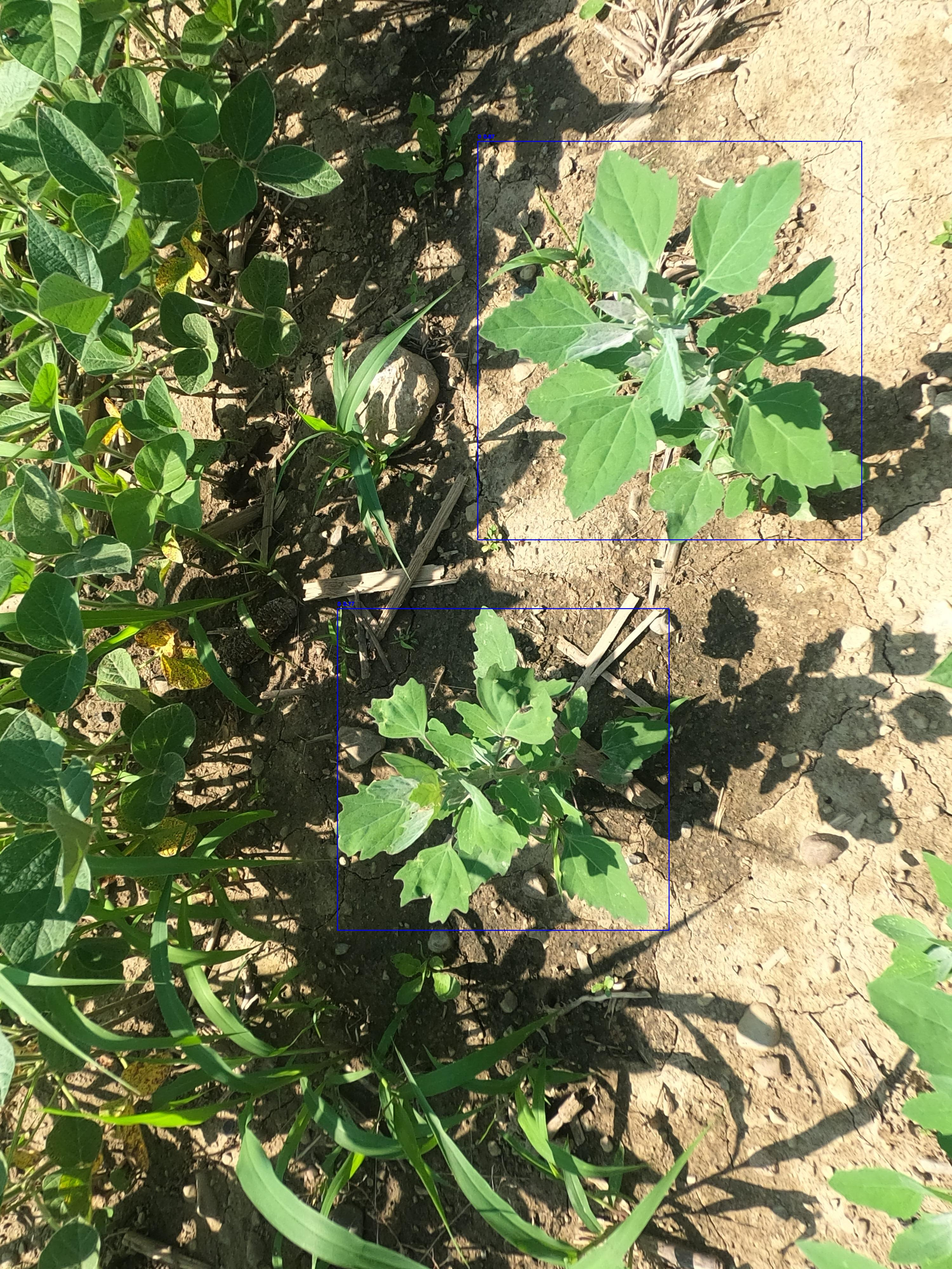
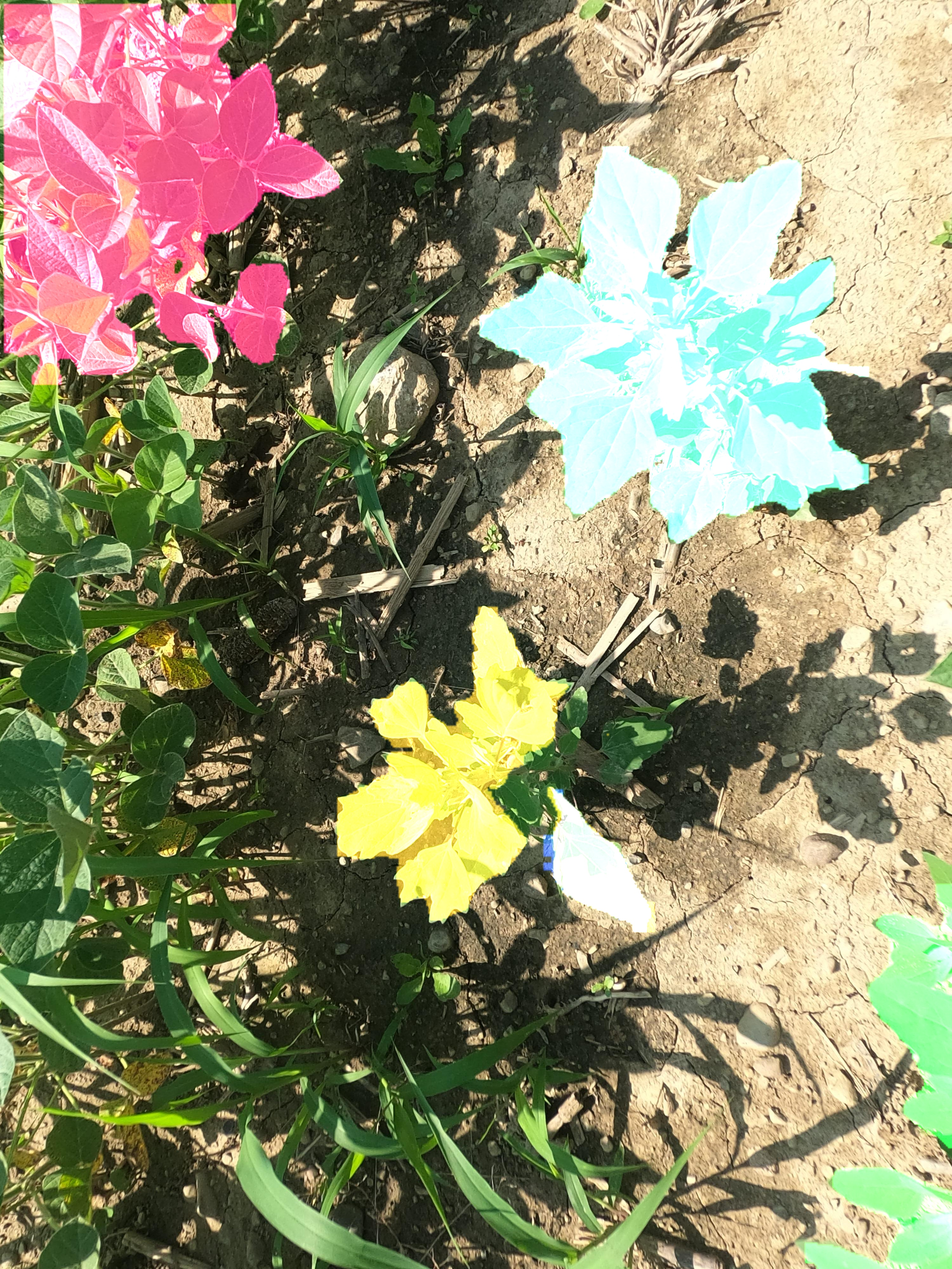
feat: in-browser segmentation

diff --git a/client-gui/src/app/_components/canvas/Canvas.tsx b/client-gui/src/app/_components/canvas/Canvas.tsx
@@ -1,7 +1,7 @@
 "use client";
 import React, { useEffect, useRef } from "react";
 import Konva from "konva";
-import useStore from "../../_store/canvas";
+import useCanvasStore from "../../_store/canvas";
 import BaseImage from "./BaseImage";
 
 let id = 1;
@@ -16,8 +16,8 @@ function getRelativePointerPosition(node: Konva.Stage) {
 
 //on pinch zoom function
 function zoomStage(stage: Konva.Stage, scaleBy: number) {
-  const oldScale = stage.scaleX();
-  const mousePointTo = {
+  const oldScale = stage.scaleX(); 
+  const mousePointTo = { 
     x: stage.width() / 2 / oldScale - stage.x() / oldScale,
     y: stage.height() / 2 / oldScale - stage.y() / oldScale,
   };
@@ -42,14 +42,14 @@ const Canvas = ({ stageRef }: CanvasProps) => {
   const imageLayerRef = useRef<Konva.Layer | null>(null);
   const regionLayerRef = useRef<Konva.Layer | null>(null);
 
-  const width = useStore((s) => s.width);
-  const height = useStore((s) => s.height);
-  const setSize = useStore((s) => s.setSize); 
-  const isDrawing = useStore((s) => s.isDrawing);
-  const toggleDrawing = useStore((s) => s.toggleIsDrawing);
-  const regions = useStore((s) => s.regions);
-  const setRegions = useStore((s) => s.setRegions);
-  const selectRegion = useStore((s) => s.selectRegion);
+  const width = useCanvasStore((s) => s.width);
+  const height = useCanvasStore((s) => s.height);
+  const setSize = useCanvasStore((s) => s.setSize); 
+  const isDrawing = useCanvasStore((s) => s.isDrawing);
+  const toggleDrawing = useCanvasStore((s) => s.toggleIsDrawing);
+  const regions = useCanvasStore((s) => s.regions);
+  const setRegions = useCanvasStore((s) => s.setRegions);
+  const selectRegion = useCanvasStore((s) => s.selectRegion);
 
   // --- Fix: keep refs to always-latest state for event handlers ---
   const regionsRef = useRef(regions); 
@@ -100,7 +100,7 @@ const Canvas = ({ stageRef }: CanvasProps) => {
     stage.add(imageLayer);
     stage.add(regionLayer);
 
-    //click and wheel
+    //click and wheel 
     stage.on("click", (e) => {
       if (e.target.name() !== "region") {
         selectRegion(null);

diff --git a/client-gui/src/app/_components/canvas/Regions.tsx b/client-gui/src/app/_components/canvas/Regions.tsx
@@ -1,14 +1,14 @@
 import React, { useEffect, useRef } from "react";
 import Konva from "konva";
 
-import useStore from "../../_store/canvas";
+import useCanvasStore from "../../_store/canvas";
 
 export default function Regions() {
   const containerRef = useRef<HTMLDivElement>(null);
   const layerRef = useRef<Konva.Layer | null>(null);
-  const selectedId = useStore(s => s.selectedRigionId);
-  const selectRegion = useStore(s => s.selectRegion);
-  const regions = useStore(s => s.regions);
+  const selectedId = useCanvasStore(s => s.selectedRigionId);
+  const selectRegion = useCanvasStore(s => s.selectRegion);
+  const regions = useCanvasStore(s => s.regions);
 
   useEffect(() => {
     if (!containerRef.current) return;
@@ -23,6 +23,7 @@ export default function Regions() {
     layer.destroyChildren();
 
     // For each region, draw the "erase" and then the fill lines
+    // This is how the stored regions gets rendered; 
     regions.forEach(region => {
       const points = region.points.flatMap(p => [p.x, p.y]);
 
@@ -58,10 +59,8 @@ export default function Regions() {
     if (!layer.getStage()) {
       // Create a Konva.Stage if not already created and attach the layer
       if (!containerRef.current) return;
-
       // Store the stage instance on the container DOM node for reuse
       let stage = (containerRef.current as any)._konvaStage as Konva.Stage | undefined;
-
       if (!stage) {
         stage = new Konva.Stage({
           container: containerRef.current,
@@ -70,7 +69,6 @@ export default function Regions() {
         });
         (containerRef.current as any)._konvaStage = stage;
       }
-
       stage.add(layer);
     }
   }, [regions, selectedId, selectRegion]);

diff --git a/client-gui/src/app/_components/settings.tsx b/client-gui/src/app/_components/settings.tsx
@@ -4,6 +4,8 @@ import Checkbox from '@mui/material/Checkbox';
 import Stack from '@mui/material/Stack';
 import useModelStore from '../_store/model';
 import useServerStore from '../_store/server';
+import useCanvasStore, {Region} from '../_store/canvas';
+
 import "./style.css"
 
 
@@ -11,6 +13,8 @@ const Settings = ({ onChange }: { onChange: (ops: string[]) => void }) => {
   const runOps = useModelStore((s) => s.runOps);
   const setRunOps = useModelStore((s) => s.setRunOps);
   const baseServerURL = useServerStore((s) => s.baseServerURL)
+  const regions = useCanvasStore((s) => s.regions)
+  const setRegions = useCanvasStore((s) => s.setRegions)
 
   // Local state for checkboxes as a Map
   const [checked, setChecked] = useState<Map<string, boolean>>(
@@ -38,9 +42,24 @@ const Settings = ({ onChange }: { onChange: (ops: string[]) => void }) => {
     const result = await response.json(); 
     console.log(result)
     const firstImgName = Object.keys(result)[0];
-    const de = result[firstImgName]["segment"];
-    console.log(de)
-    console.log(de);
+    const seg = result[firstImgName]["segment"];
+  
+      //create new region
+      console.log(seg[0])
+      
+    for (const [idx, r] of seg.entries()) {
+      for (const contour of r) { 
+        const newPoints = contour.map(([x, y]: [number, number]) => ({ x, y }));
+        const newRegion: Region = {
+          id: `region-${idx}`,
+          points: newPoints,
+          color: "#ff0000" 
+        };
+        setRegions([...regions, newRegion]);
+      }
+    }
+   
+      // console.log(regions)
   }
 
   // Sync zustand state with local state

diff --git a/client-gui/src/app/_components/canvas/BaseImage.tsx b/client-gui/src/app/_components/canvas/BaseImage.tsx
@@ -1,7 +1,7 @@
 "use client";
 import React, { useEffect } from "react";
 import Konva from "konva";
-import useStore from "../../_store/canvas";
+import useCanvasStore from "../../_store/canvas";
 import useImageStore from "../../_store/img";
 
 
@@ -10,10 +10,10 @@ import useImageStore from "../../_store/img";
 const BaseImage = ({ layer }: { layer: Konva.Layer }) => {
   //use size to set baseimage; 
   const imageUrl = useImageStore((s) => s.imageUrl)
-  const setImageSize = useStore((state) => state.setImageSize);
-  const setScale = useStore((state) => state.setScale);
-  const width = useStore((state) => state.width);
-  const height = useStore((state) => state.height);
+  const setImageSize = useCanvasStore((state) => state.setImageSize);
+  const setScale = useCanvasStore((state) => state.setScale);
+  const width = useCanvasStore((state) => state.width);
+  const height = useCanvasStore((state) => state.height);
 
   useEffect(() => {
     const imageObj = new window.Image();

diff --git a/client-gui/src/app/_components/canvas/wrap.tsx b/client-gui/src/app/_components/canvas/wrap.tsx
@@ -3,7 +3,7 @@ import React, {useRef} from "react";
 import dynamic from 'next/dynamic';
 import Konva from "konva";
 import "./style.css";
-import useStore from "../../_store/canvas";
+import useCanvasStore from "../../_store/canvas";
 const Canvas = dynamic(() => import('./Canvas'), { ssr: false });
 import RegionsList from "./RegionsList";
 // import useStore from "../../store";
@@ -24,7 +24,7 @@ const handleDownload = (stage: Konva.Stage | null) => {
 
  
 const Wrap =  () => {
-  const width = useStore((s) => s.width);
+  const width = useCanvasStore((s) => s.width);
   const stageRef = useRef<Konva.Stage | null>(null); 
   
   return (

diff --git a/client-gui/src/app/_store/canvas.tsx b/client-gui/src/app/_store/canvas.tsx
@@ -38,7 +38,7 @@ interface StoreState {
     setBrightness: (brightness: number) => void;
 }
 
-const useStore = create<StoreState>(set => ({
+const useCanvasStore = create<StoreState>(set => ({
     width: 900,
     height: 700,
     setSize: ({ width, height }: Size) => set({ width, height }),
@@ -63,4 +63,4 @@ const useStore = create<StoreState>(set => ({
     setBrightness: (brightness: number) => set({ brightness })
 }));
 
-export default useStore;
+export default useCanvasStore;
